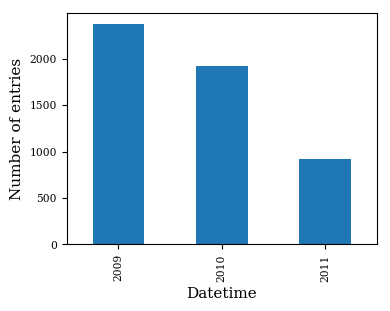
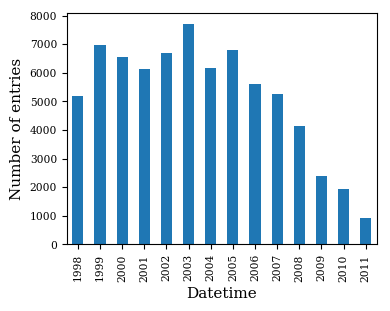
Updated text in the paper LaTeX

diff --git a/papers/2020-Frontiers/sections/data.tex b/papers/2020-Frontiers/sections/data.tex
@@ -1,9 +1,10 @@
 \paragraph{Data Set Used}
-The solar wind data used in this work was obtained by the Advanced Composition Explorer (ACE) spacecraft, during a period of 14 years, between 1998 and 2011. The data can be downloaded from the \href{ftp://mussel.srl.caltech.edu/pub/ace/level2/multi}{FTP servers of The ACE Science Center (ASC)}. The files in this repository correspond to a compilation of hourly average data from three instruments: MAG (Magnetometer), SWEPAM (Solar Wind Electron, Proton, and Alpha Monitor) and EPAM (Electron, Proton, and Alpha Monitor).
+The solar wind data used in this work was obtained by the Advanced Composition Explorer (ACE) spacecraft, during a period of 14 years, between 1998 and 2011. The data can be downloaded from the \href{ftp://mussel.srl.caltech.edu/pub/ace/level2/multi}{FTP servers of The ACE Science Center (ASC)}. The files in this repository correspond to a compilation of hourly average data from three instruments: MAG (Magnetometer), SWEPAM (Solar Wind Electron, Proton, and Alpha Monitor) and EPAM (Electron, Proton, and Alpha Monitor). A detailed description of the entries in this data set can be found in the \href{http://www.srl.caltech.edu/cgi-bin/dib/rundibviewmultil2/ACE/ASC/DATA/level2/multi}{ASC website} listed in section \ref{sec:repos}.
 
-A total of 140256 data points are available. However, routine maintenance operations and instrument degradation produce gaps in the data. Null values can appear in individual instrument measurements, and ASC has included quality flags into the data set. We eliminate low quality entries in the data and any entry where at least one null value has been recorded. Fig.\ref{fig:datacoverage} shows the final number of entries retained per year. Our final data set contains a total of 72448 points.
+A total of 122712 data points are available. However, routine maintenance operations, low statistics, instrument saturation and instrument degradation produce gaps and errors in the data. The SWICS data includes a flag assessing the quality of the calculated plasma moments. We retain only \'Good quality\' entries. Fig.\ref{fig:datacoverage} shows the final number of items retained per year. Our final data set contains a total of 72454 points.
 
 \paragraph{Data Processing and Derived Features}
+72449 entries
 
 \paragraph{Feature Selection using PCA}
 

diff --git a/papers/2020-Frontiers/Amaya_etal_SOM.tex b/papers/2020-Frontiers/Amaya_etal_SOM.tex
@@ -122,6 +122,8 @@ The original contributions presented in the study are publicly available. This d
 
 ACE datasets downloaded from \href{ftp://mussel.srl.caltech.edu/pub/ace/level2/multi}{ftp://mussel.srl.caltech.edu/pub/ace/level2/multi}.
 
+ACE multi-instrument data set description: \href{http://www.srl.caltech.edu/cgi-bin/dib/rundibviewmultil2/ACE/ASC/DATA/level2/multi}{http://www.srl.caltech.edu/cgi-bin/dib/rundibviewmultil2/ACE/ASC/DATA/level2/multi}
+
 Sunspots from \href{http://www.sidc.be/silso/datafiles}{http://www.sidc.be/silso/datafiles}
 
 % Please see the availability of data guidelines for more information, at https://www.frontiersin.org/about/author-guidelines#AvailabilityofData
